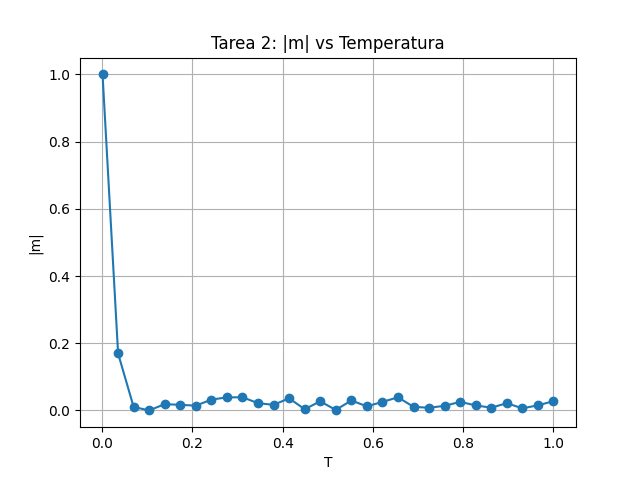
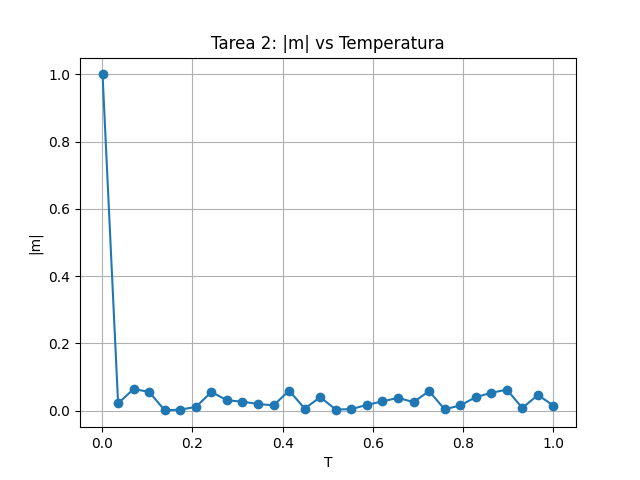
hago t3

Changed region(s): [[0.125, 0.25, 0.9062, 0.875]]

diff --git a/voluntario2/hopfield.py b/voluntario2/hopfield.py
@@ -4,7 +4,6 @@ from matplotlib.animation import FuncAnimation
 import os
 
 # --- CONFIGURACIÓN DE RUTA ---
-# Usamos r"" para evitar problemas con las backslashes de Windows
 PATH = r"C:\Users\Usuario\Desktop\2526_Computacional\voluntario2"
 if not os.path.exists(PATH): 
     os.makedirs(PATH)
@@ -19,157 +18,179 @@ class HopfieldNet:
         self.a = []
 
     def store_patterns(self, p_list):
-        # Construye la matriz de pesos sinápticos usando la regla de Hebb.
+        # Construye la matriz de pesos sinápticos usando la regla de Hebb[cite: 6, 13].
         self.patterns = [p.flatten() for p in p_list]
-        self.a = [np.mean(p) for p in self.patterns] 
+        self.a = [np.mean(p) for p in self.patterns] # a^mu: actividad media [cite: 13]
         self.w = np.zeros((self.num_neurons, self.num_neurons))
 
         # Optimización: Calculamos la matriz de pesos de una sola vez usando operaciones vectorizadas
-        # Nota: El producto exterior (outer) suma la correlación de cada par de neuronas para cada patrón.
+        # Nota: El producto exterior (outer) suma la correlación de cada par de neuronas para cada patrón[cite: 13].
         for mu in range(len(self.patterns)):
             p_c = self.patterns[mu] - self.a[mu]
             self.w += np.outer(p_c, p_c)
             
-        # Normalización y eliminación de autoconexiones
+        # Normalización y eliminación de autoconexiones [cite: 13, 15]
         self.w /= self.num_neurons
-        np.fill_diagonal(self.w, 0) # Autoconexiones prohibidas 
-        self.theta = 0.5 * np.sum(self.w, axis=1) # Umbral de disparo 
+        np.fill_diagonal(self.w, 0) # autoconexiones wij,ij = 0 [cite: 15] 
+        self.theta = 0.5 * np.sum(self.w, axis=1) # Umbral de disparo theta_ij [cite: 17] 
 
     def overlap(self, state, mu):
-        # Calcula cuánto se parece el estado actual (s) a un patrón almacenado (p)
+        # Calcula el solapamiento m^mu (fidelidad del recuerdo) [cite: 27]
         s = state.flatten()
         p = self.patterns[mu]
         a = self.a[mu]
         den = self.num_neurons * a * (1 - a)
-        # Si den es 0 (patrón uniforme), devolvemos 0 para evitar error
         if den == 0: return 0
         return np.sum((p - a) * (s - a)) / den 
 
     def metropolis_step(self, state, T):
-        # Realiza un paso de actualización de la red usando el criterio de Metrópolis
-        #  para aceptar o rechazar cambios. Si la energía disminuye, se acepta el cambio.
-        #  Si aumenta, se acepta con probabilidad exp(-delta_E/T).
+        # Dinámica de Metrópolis para minimizar el Hamiltoniano H[cite: 3, 37].
         s = state.flatten().astype(float)
         for _ in range(self.num_neurons):
             i = np.random.randint(0, self.num_neurons)
-            delta_s = 1.0 - 2.0 * s[i] # Cambio s -> 1-s 
+            delta_s = 1.0 - 2.0 * s[i] # Cambio de estado s: 0 <-> 1 [cite: 38]
             
-            # El campo local h_i es la influencia de todas las demás neuronas sobre la neurona i
+            # Campo local h_i: influencia de la red sobre la neurona i
             h_i = np.dot(self.w[i], s)
             
-            # delta_E representa la variación de energía del sistema si cambiamos la neurona i
-            delta_E = delta_s * (self.theta[i] - h_i) # Optimización 
+            # Variación de energía Delta H [cite: 34]
+            delta_E = delta_s * (self.theta[i] - h_i) 
             
-            # Criterio de Metrópolis 
+            # Criterio de Metrópolis [cite: 37] 
             if delta_E <= 0 or np.random.rand() < np.exp(-delta_E / T):
                 s[i] = 1.0 - s[i]
         return s.reshape((self.N, self.N))
 
-# --- GENERACIÓN DE RESULTADOS ---
+def obtener_diccionario_letras(N):
+    # Definimos plantillas 5x7 para las letras. 'X' es píxel activo, '.' es inactivo.
+    # Esto permite tener todo el abecedario de forma compacta.
+    plantillas = {
+        'A': ["..X..", ".X.X.", "X...X", "XXXXX", "X...X", "X...X", "X...X"],
+        'B': ["XXXX.", "X...X", "XXXX.", "X...X", "X...X", "XXXX.", "....."],
+        'C': [".XXXX", "X....", "X....", "X....", "X....", ".XXXX", "....."],
+        'D': ["XXXX.", "X...X", "X...X", "X...X", "X...X", "XXXX.", "....."],
+        'E': ["XXXXX", "X....", "XXXX.", "X....", "X....", "XXXXX", "....."],
+        'F': ["XXXXX", "X....", "XXXX.", "X....", "X....", "X....", "....."],
+        'G': [".XXXX", "X....", "X..XX", "X...X", "X...X", ".XXXX", "....."],
+        'H': ["X...X", "X...X", "XXXXX", "X...X", "X...X", "X...X", "....."],
+        'I': ["XXXXX", "..X..", "..X..", "..X..", "..X..", "XXXXX", "....."],
+        'J': ["..XXX", "...X.", "...X.", "...X.", "X..X.", ".XX..", "....."],
+        'K': ["X...X", "X..X.", "XXX..", "X..X.", "X...X", "X...X", "....."],
+        'L': ["X....", "X....", "X....", "X....", "X....", "XXXXX", "....."],
+        'M': ["X...X", "XX.XX", "X.X.X", "X...X", "X...X", "X...X", "....."],
+        'N': ["X...X", "XX..X", "X.X.X", "X..XX", "X...X", "X...X", "....."],
+        'O': [".XXX.", "X...X", "X...X", "X...X", "X...X", ".XXX.", "....."],
+        'P': ["XXXX.", "X...X", "XXXX.", "X....", "X....", "X....", "....."],
+        'Q': [".XXX.", "X...X", "X...X", "X.X.X", "X..X.", ".XX.X", "....."],
+        'R': ["XXXX.", "X...X", "XXXX.", "X.X..", "X..X.", "X...X", "....."],
+        'S': [".XXXX", "X....", ".XXX.", "....X", "XXXX.", ".....", "....."],
+        'T': ["XXXXX", "..X..", "..X..", "..X..", "..X..", "..X..", "....."],
+        'U': ["X...X", "X...X", "X...X", "X...X", "X...X", ".XXX.", "....."],
+        'V': ["X...X", "X...X", "X...X", "X...X", ".X.X.", "..X..", "....."],
+        'W': ["X...X", "X...X", "X...X", "X.X.X", "XX.XX", "X...X", "....."],
+        'X': ["X...X", ".X.X.", "..X..", ".X.X.", "X...X", "X...X", "....."],
+        'Y': ["X...X", ".X.X.", "..X..", "..X..", "..X..", "..X..", "....."],
+        'Z': ["XXXXX", "....X", "...X.", "..X..", ".X...", "XXXXX", "....."]
+    }
+    
+    diccionario = {}
+    for letra, lineas in plantillas.items():
+        # Convertimos la plantilla de texto a una matriz numérica
+        matriz_pequeña = np.array([[1 if c == 'X' else 0 for c in fila] for fila in lineas])
+        # Escalamos la matriz pequeña para que encaje en el tamaño N x N de la red [cite: 22]
+        diccionario[letra] = np.kron(matriz_pequeña, np.ones((N // 7 + 1, N // 5 + 1)))[:N, :N]
+    return diccionario
 
 def run_all_tasks():
-    # --- TAREA 1: ANIMACIÓN (N=30, T=1e-4)  ---
-    N1 = 50
     T_low = 1e-4
-    # Creamos un patrón visual (una cruz)
-    p_task1 = np.zeros((N1, N1))
-    p_task1[N1//2-2:N1//2+2, :] = 1
-    p_task1[:, N1//2-2:N1//2+2] = 1
-    
+
+    # --- TAREA 1: ANIMACIÓN (N=50) ---
+    print("Generando GIF de la Tarea 1...")
+    N1 = 50
+    p1 = np.zeros((N1, N1))
+    p1[N1//2-2:N1//2+2, :] = 1
+    p1[:, N1//2-2:N1//2+2] = 1 # Patrón en cruz [cite: 22]
     net1 = HopfieldNet(N1)
-    net1.store_patterns([p_task1])
-    
-    # Condición inicial aleatoria 
+    net1.store_patterns([p1])
     state = np.random.randint(0, 2, (N1, N1))
     
-    # Listas para almacenar la evolución del solapamiento y los fotogramas de la animación
     fig, (ax1, ax2) = plt.subplots(1, 2, figsize=(12, 5))
     im = ax1.imshow(state, cmap='binary')
-    ax1.set_title("Evolución de la Red (N=30)")
-    
-    # Gráfica de solapamiento m(t)
     line, = ax2.plot([], [], 'r-')
     ax2.set_xlim(0, 20); ax2.set_ylim(-1.1, 1.1)
     ax2.set_title("Solapamiento m(t)")
     ax2.grid(True)
-    
-    m_history = []
+    m_hist = []
 
     def update(frame):
         nonlocal state
-        m = net1.overlap(state, 0)
-        m_history.append(m)
+        m_hist.append(net1.overlap(state, 0))
         im.set_data(state)
-        line.set_data(range(len(m_history)), m_history)
+        line.set_data(range(len(m_hist)), m_hist)
         state = net1.metropolis_step(state, T_low)
         return im, line
 
-    print("Generando GIF de la Tarea 1...")
-    ani = FuncAnimation(fig, update, frames=21, blit=True, repeat=False)
+    ani = FuncAnimation(fig, update, frames=21, blit=True)
     ani.save(os.path.join(PATH, "evolucion_hopfield.gif"), writer='pillow')
-    plt.close() # Cerramos para seguir con las otras tareas
+    plt.close()
 
-    # --- TAREA 2: TEMPERATURA ---
-    # Analizamos cómo afecta el "ruido termico" (temperatura) a la estabilida de la memoria.
-    print("Calculando Tarea 2: Solapamiento vs T...")
-    temps = np.linspace(0.001, 1, 30)
-    m_vs_t = []
-    for t in temps:
-        s_test = p_task1.copy()
-        # Dejamos que el sistema evolucione suficiente para alcanzar el equilibrio térmico
-        for _ in range(15): s_test = net1.metropolis_step(s_test, t)
-        m_vs_t.append(abs(net1.overlap(s_test, 0)))
+    # --- TAREA 3: INTERACCIÓN CON EL USUARIO (N=30) ---
+    print("\n--- INICIANDO TAREA 3 ---")
+    N3 = 30
+    dict_letras = obtener_diccionario_letras(N3)
     
-    plt.figure()
-    plt.plot(temps, m_vs_t, 'o-')
-    plt.title("Tarea 2: |m| vs Temperatura")
-    plt.xlabel("T"); plt.ylabel("|m|")
-    plt.grid()
-    plt.savefig(os.path.join(PATH, "tarea2_m_vs_T.png"))
+    while True:
+        entrada = input("Introduce 3 letras de la A a la Z (ej: ABC): ").upper()
+        if len(entrada) == 3 and all(c in dict_letras for c in entrada):
+            break
+        print("Entrada no válida. Por favor, introduce exactamente 3 letras.")
 
-    # --- TAREA 4: CAPACIDAD (N=20, T=1e-4)  ---
-    print("Calculando Tarea 4: Capacidad Crítica...")
-    N4 = 50
-    # Ampliamos el rango de P para asegurar que vemos el colapso (P_max > 0.15 * N^2)
-    P_vals = np.arange(1, 501, 20) 
+    letras_elegidas = [dict_letras[c] for c in entrada]
+    net3 = HopfieldNet(N3)
+    net3.store_patterns(letras_elegidas) # Almacenamos varios patrones a la vez 
+
+    # Partimos de la primera letra elegida deformada un 30% 
+    print(f"Simulando recuperación de la letra '{entrada[0]}'...")
+    s_test = letras_elegidas[0].copy()
+    ruido = np.random.rand(N3, N3) < 0.3
+    s_test[ruido] = 1 - s_test[ruido]
+
+    m_hist_3 = {i: [] for i in range(3)}
+    for _ in range(20):
+        for i in range(3):
+            m_hist_3[i].append(net3.overlap(s_test, i))
+        s_test = net3.metropolis_step(s_test, T_low)
+
+    plt.figure()
+    for i in range(3):
+        plt.plot(m_hist_3[i], label=f"Letra {entrada[i]}")
+    plt.title(f"Tarea 3: Evolución con letras {entrada}")
+    plt.xlabel("Pasos Monte Carlo"); plt.ylabel("Solapamiento m")
+    plt.legend(); plt.grid()
+    plt.savefig(os.path.join(PATH, "tarea3_letras_usuario.png"))
+    print(f"Gráfica guardada en {PATH}")
+
+    # --- TAREA 4: CAPACIDAD (N=20) ---
+    print("\nCalculando Tarea 4: Capacidad Crítica...")
+    N4 = 20
+    P_vals = np.arange(1, 101, 10) # Patrones aleatorios para estresar la red [cite: 31, 32]
     recuperados = []
     Pc = 0
-    
     for P in P_vals:
-        p_list = [(np.random.rand(N4, N4) > 0.5).astype(int) for _ in range(P)] 
+        p_list = [(np.random.rand(N4, N4) > 0.5).astype(int) for _ in range(P)]
         net4 = HopfieldNet(N4)
         net4.store_patterns(p_list)
-        
-        count = 0
-        for mu in range(P):
-            # Partimos del propio patrón para ver si es un mínimo estable
-            s_test = p_list[mu].copy()
-            for _ in range(10): s_test = net4.metropolis_step(s_test, T_low)
-            # Criterio del guion: se recuerda si m > 0.75
-            if net4.overlap(s_test, mu) > 0.75: 
-                count += 1
-        
+        count = sum(1 for mu in range(P) if net4.overlap(net4.metropolis_step(p_list[mu].copy(), T_low), mu) > 0.75)
         recuperados.append(count)
-        
-        # Guardamos el último P donde la red aún recuerda casi todo (ej. > 90%)
-        if count >= P * 0.9:
-            Pc = P
-    
-    # Cálculo de alpha_c (capacidad máxima relativa)
-    alpha_c = Pc / (N4 * N4)
-    
-    print(f"--- RESULTADOS TAREA 4 ---")
-    print(f"P crítico (Pc) detectado: {Pc}")
-    print(f"Capacidad crítica calculada: alpha_c = {alpha_c:.4f}")
-    print(f"--------------------------")
+        if count >= P * 0.9: Pc = P
+
+    alpha_c = Pc / (N4*N4) # alpha_c = Pc / N^2 
+    print(f"Resultado T4: alpha_c = {alpha_c:.4f}")
 
     plt.figure()
-    plt.plot(P_vals, recuperados, 's-', label="Patrones Recordados")
-    plt.plot(P_vals, P_vals, '--k', alpha=0.3, label="Límite Ideal (100%)")
-    plt.axvline(x=Pc, color='r', linestyle=':', label=f'Pc ≈ {Pc} (alpha_c={alpha_c:.3f})')
-    plt.title(f"Tarea 4: Capacidad de la Red (N={N4})")
-    plt.xlabel("Patrones Almacenados (P)")
-    plt.ylabel("Patrones Recordados")
+    plt.plot(P_vals, recuperados, 's-', label="Recordados")
+    plt.plot(P_vals, P_vals, '--k', alpha=0.3, label="Límite Ideal")
+    plt.axvline(x=Pc, color='r', label=f'Pc={Pc}')
     plt.legend(); plt.grid()
     plt.savefig(os.path.join(PATH, "tarea4_capacidad.png"))
 